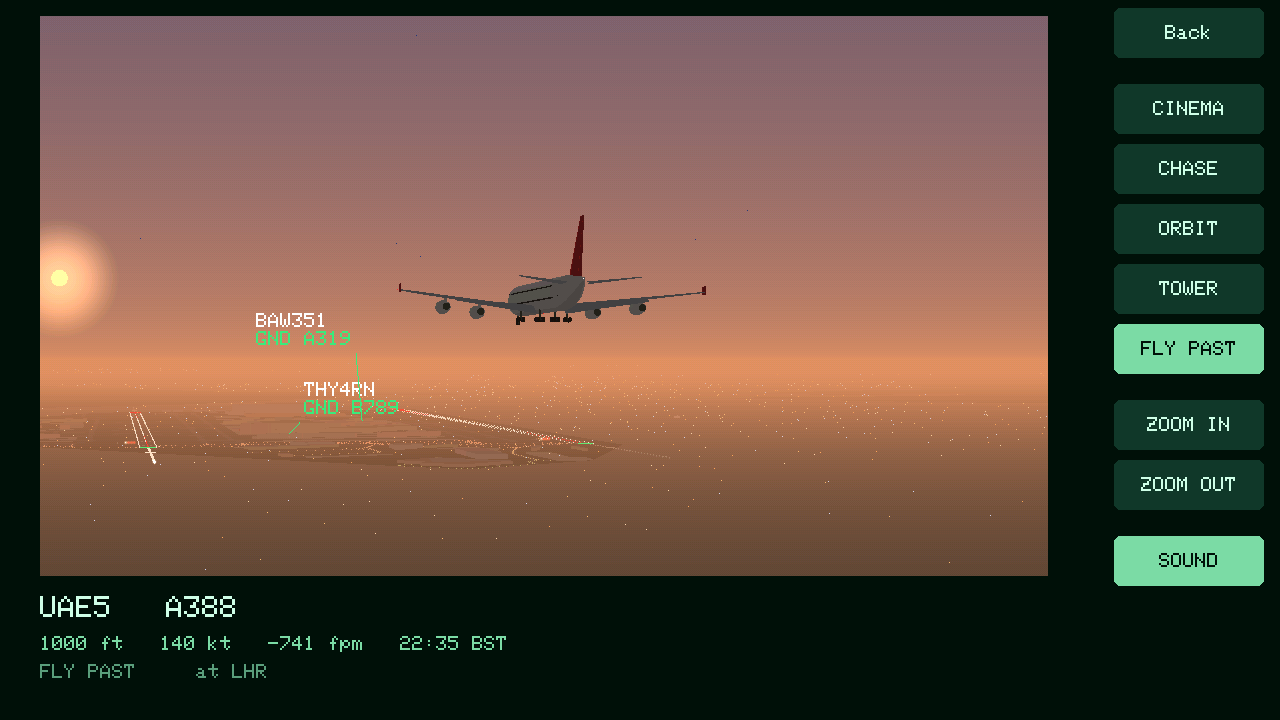
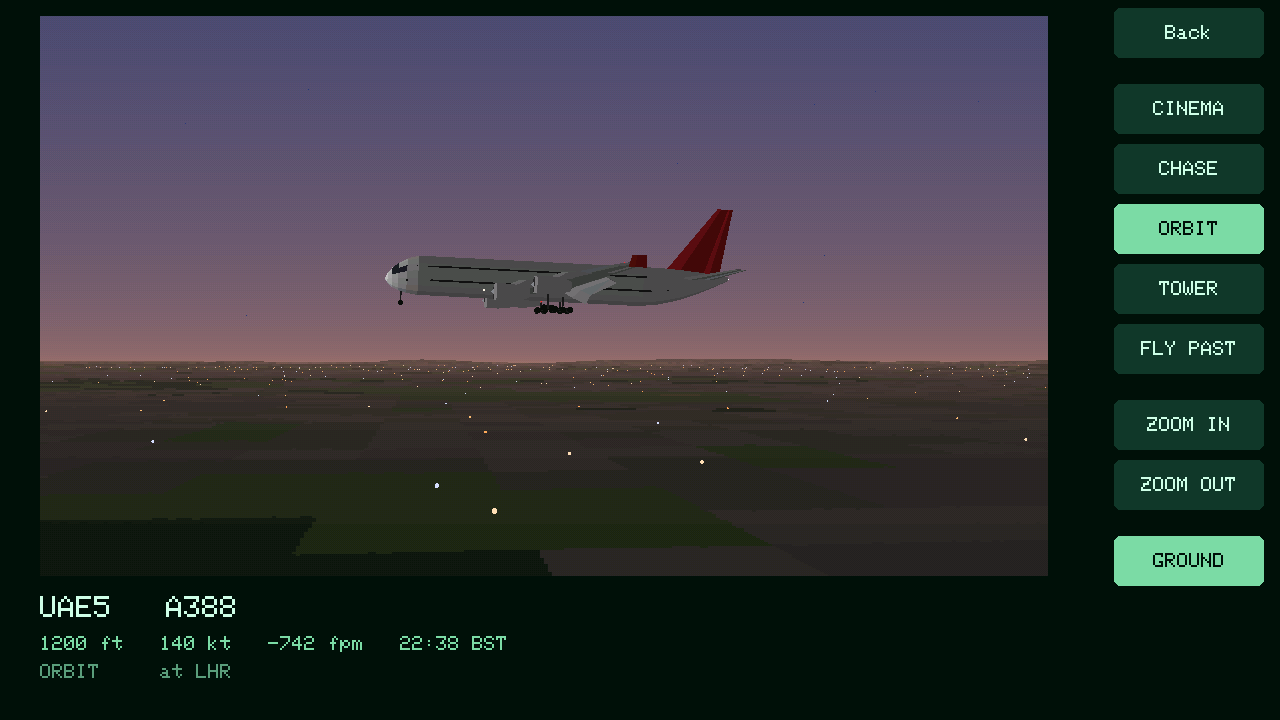
README: the 3D pictures taken again on 1.5.1, with GROUND
The A380 at dusk over London on its way into Heathrow, its touchdown in
CINEMA's shot, and the morning's Typhoon replayed in 3D over the hills -
taken again with the Tab5 back on the internet, the button column as it
is now (GROUND, no SOUND), the captions as the pictures are.

Claude-Session: https://claude.ai/code/session_011uES6az6RcH44y8HbHduaR

diff --git a/README.md b/README.md
@@ -14,19 +14,19 @@ A C++ rewrite of [Overhead](https://github.com/craigdianesmith-glitch/tab5-adsb-
 
 | | |
 | --- | --- |
-| ![The 3D view: an Emirates A380 at 1,000ft over London at sunset, Heathrow's approach lights ahead and the traffic on the ground labelled, in FLY PAST](docs/screenshots/3d-sunset.png) | ![The 3D view: the A380 just down on Heathrow's 27L at sunset, smoke off its main wheels, the runway and taxiway lights lit](docs/screenshots/3d-touchdown.png) |
+| ![The 3D view: an Emirates A380 at 1,200ft over London at dusk on its way into Heathrow, the towns lit below, from the ORBIT camera](docs/screenshots/3d-sunset.png) | ![The 3D view: the A380 just down on Heathrow's 27L at dusk, in CINEMA's touchdown shot, the runway and approach lights lit](docs/screenshots/3d-touchdown.png) |
 | ![The table of aircraft overhead, sorted by status with a filter on](docs/screenshots/table.png) | ![The radar 20nm around Heathrow after a free look, with its navaids and Surrey named under the traffic](docs/screenshots/radar.png) |
 | ![Free look: a line dragged 36nm out of the plot, which is redrawn at a range that takes it with its coast and airports alone](docs/screenshots/freelook-drag.png) | ![And let go: the radar centred there, with the traffic around Edinburgh](docs/screenshots/freelook.png) |
 | ![Heathrow's airport zoom at night, with runway 27L in use and the control tower marked](docs/screenshots/zoom.png) | ![Heathrow's card: its tower, ground, delivery, radar and ATIS frequencies beside a radar on its mast](docs/screenshots/card.png) |
 | ![The detail screen for one flight, its route as buttons, with SAY, WATCH and FOLLOW](docs/screenshots/detail.png) | ![Following a flight on the radar, with its height charted on the left](docs/screenshots/follow.png) |
 | ![Following an arrival in Heathrow's zoom, on short final for runway 27L](docs/screenshots/follow-zoom.png) | ![A recording of a followed Typhoon, ready to play back, with 3D under Export](docs/screenshots/replay.png) |
-| ![The recording replayed in 3D: the Typhoon from below against the morning sun as it was then, the replay's controls under the picture](docs/screenshots/replay-3d.png) | ![The filter: civil traffic only, ground transmitters hidden](docs/screenshots/filter.png) |
+| ![The recording replayed in 3D: the Typhoon at 15,700ft over the hills in the morning light as it was then, the replay's controls under the picture](docs/screenshots/replay-3d.png) | ![The filter: civil traffic only, ground transmitters hidden](docs/screenshots/filter.png) |
 | ![A recording exported to video, the aircraft's climb-out charted with its take-off](docs/screenshots/export.png) | ![The recordings on the card, and the videos made from them](docs/screenshots/recordings.png) |
 | ![Sharing over WiFi, with a QR code to the page](docs/screenshots/share.png) | ![The settings screen](docs/screenshots/settings.png) |
 | ![The alerts, voice and recording settings, with auto-follow into 3D](docs/screenshots/alerts.png) | ![Help, on how to use the tracker](docs/screenshots/help.png) |
 | ![About: the version, a disclaimer and the credits](docs/screenshots/about.png) | |
 
-Captured from the device with `tools/screenshot.py` - see [Screenshots](#screenshots). The address and network name on the settings and share screens are placeholders. The table, details, radar, zoom, replay, replay in 3D, filter, settings and alerts were taken on v1.5.0; the first two 3D pictures in the table are from its test scene of an Emirates A380 landing at Heathrow; the Alps above them is the 3D view's picture alone, on v1.5.1, the land held at full detail for the still by the bench build; the rest on v1.4.0, or the export and share screens on v1.3.1, unchanged since.
+Captured from the device with `tools/screenshot.py` - see [Screenshots](#screenshots). The address and network name on the settings and share screens are placeholders. The table, details, radar, zoom, replay, filter, settings and alerts were taken on v1.5.0; the first two 3D pictures in the table, from the bench's test scene of an Emirates A380 landing at Heathrow, and the replay in 3D are on v1.5.1, as is the Alps above them - the 3D view's picture alone, the land held at full detail for the still by the bench build; the rest on v1.4.0, or the export and share screens on v1.3.1, unchanged since.
 
 ## Hardware
 
